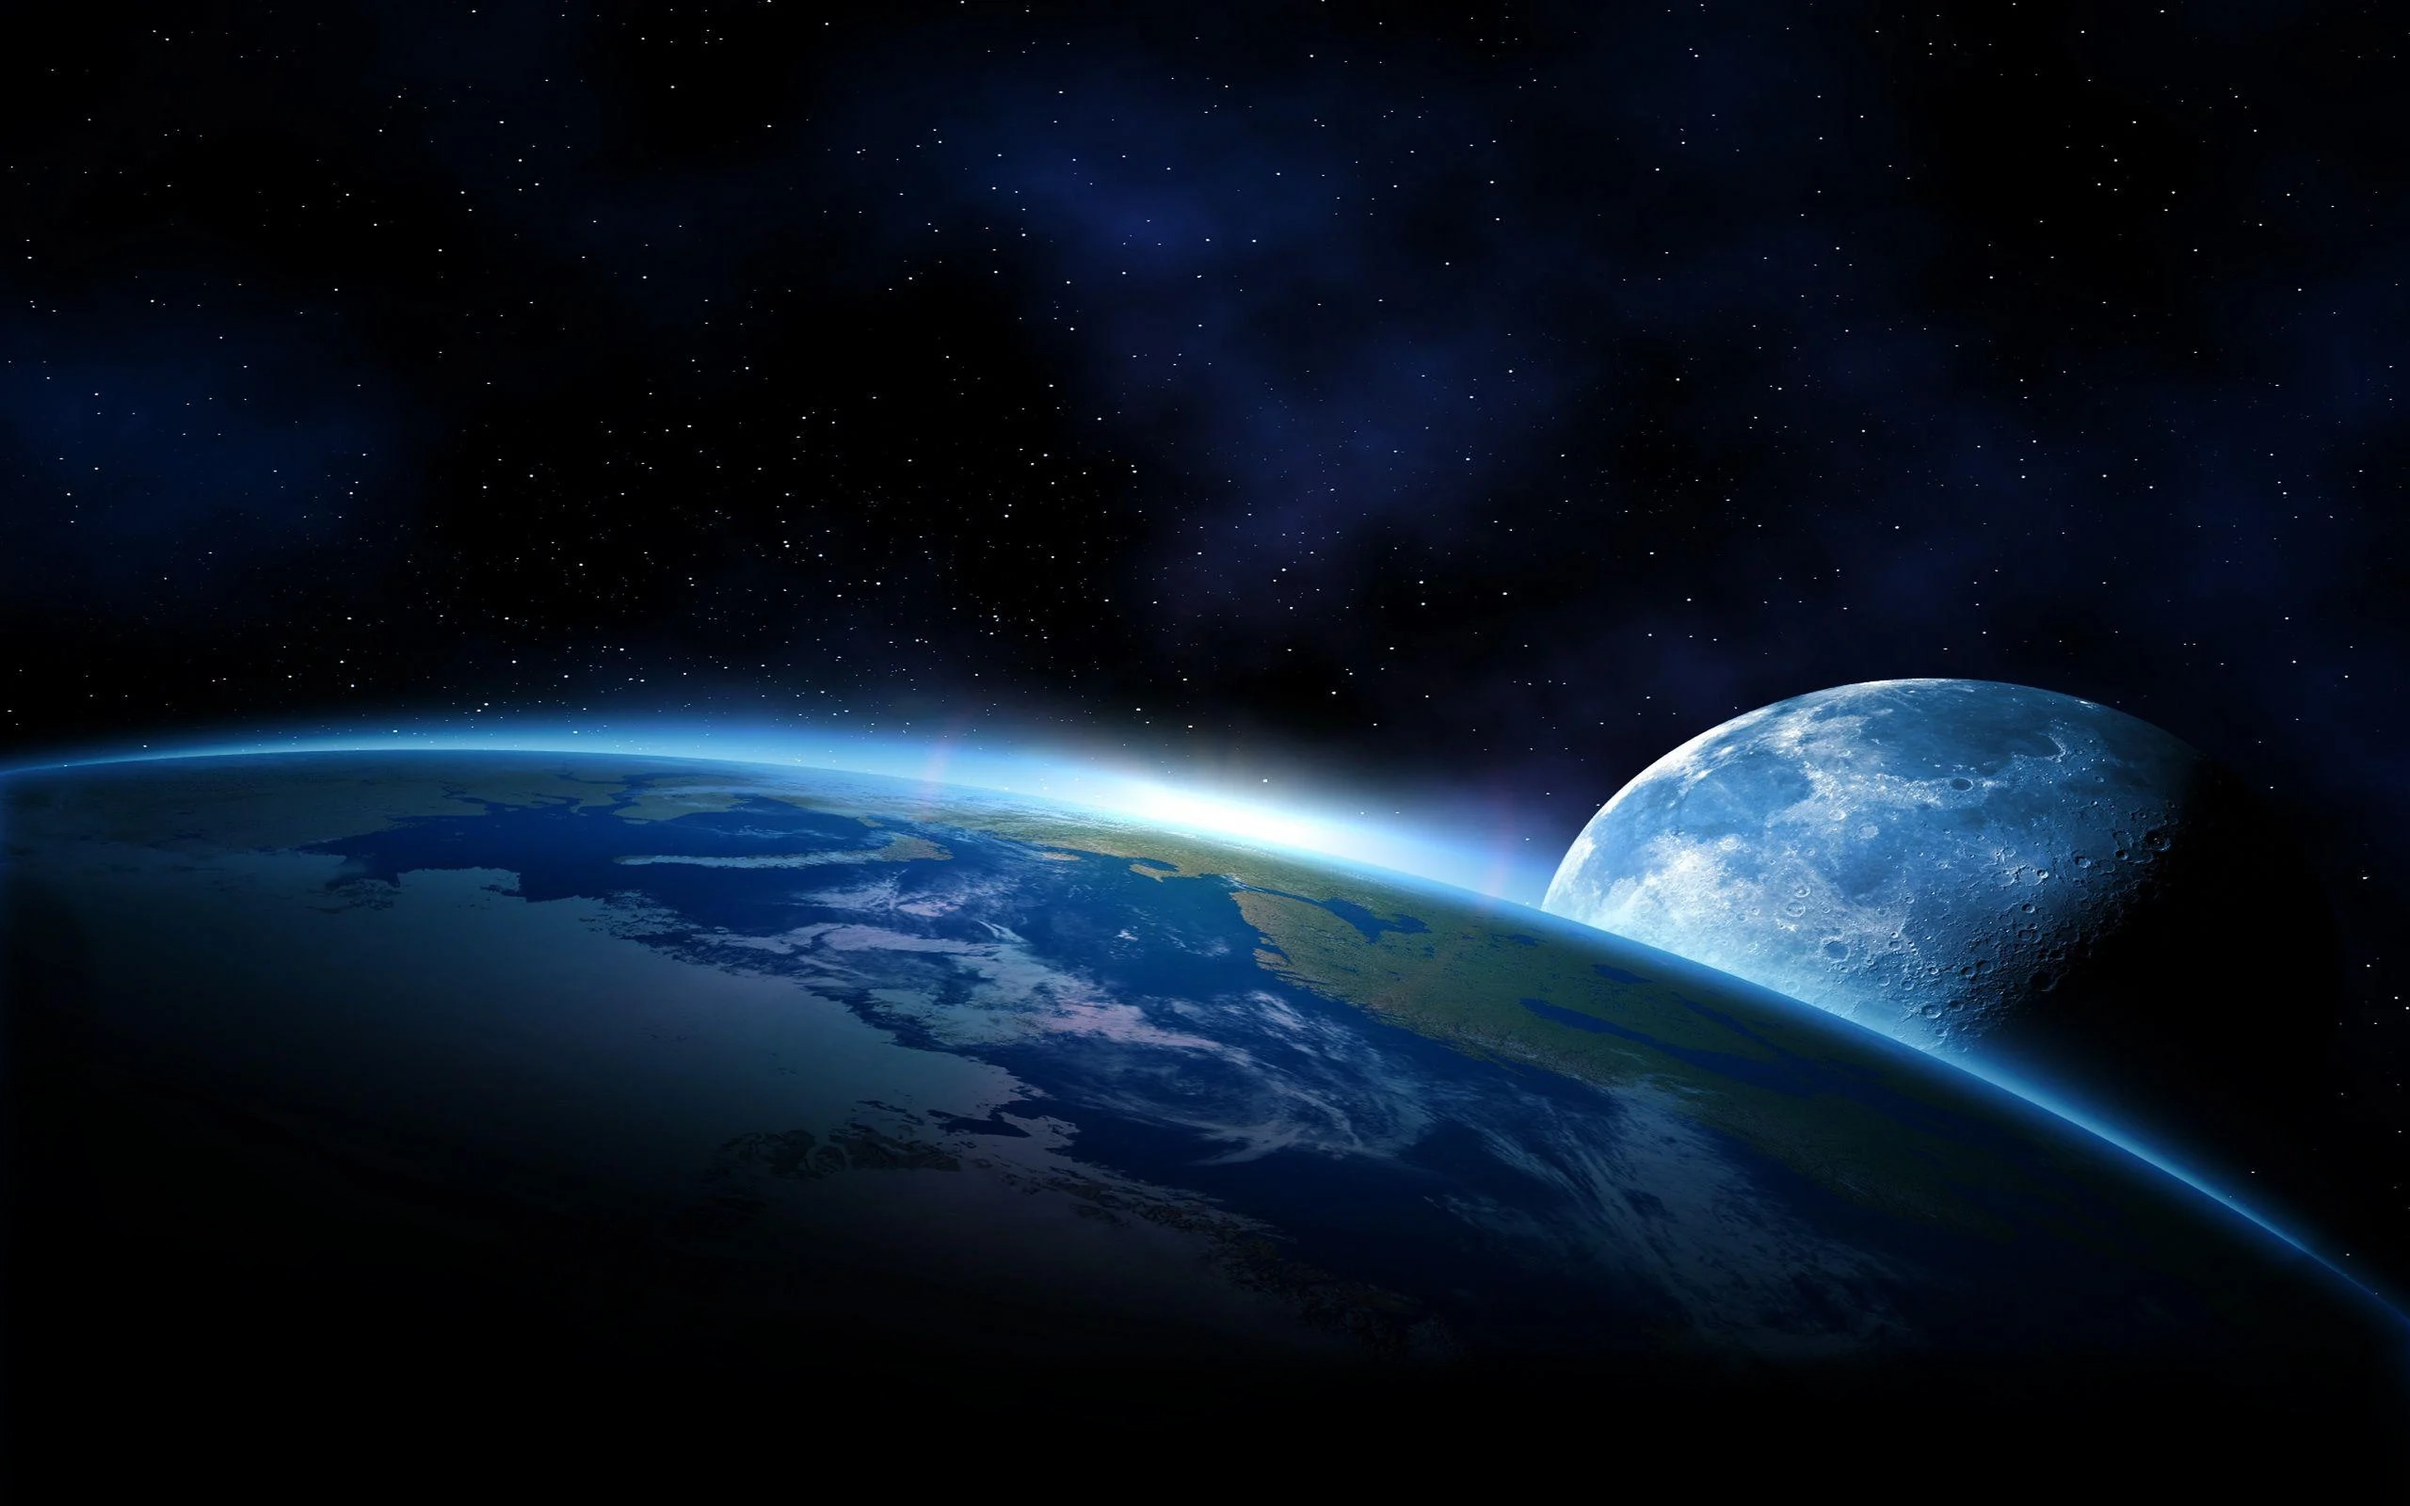
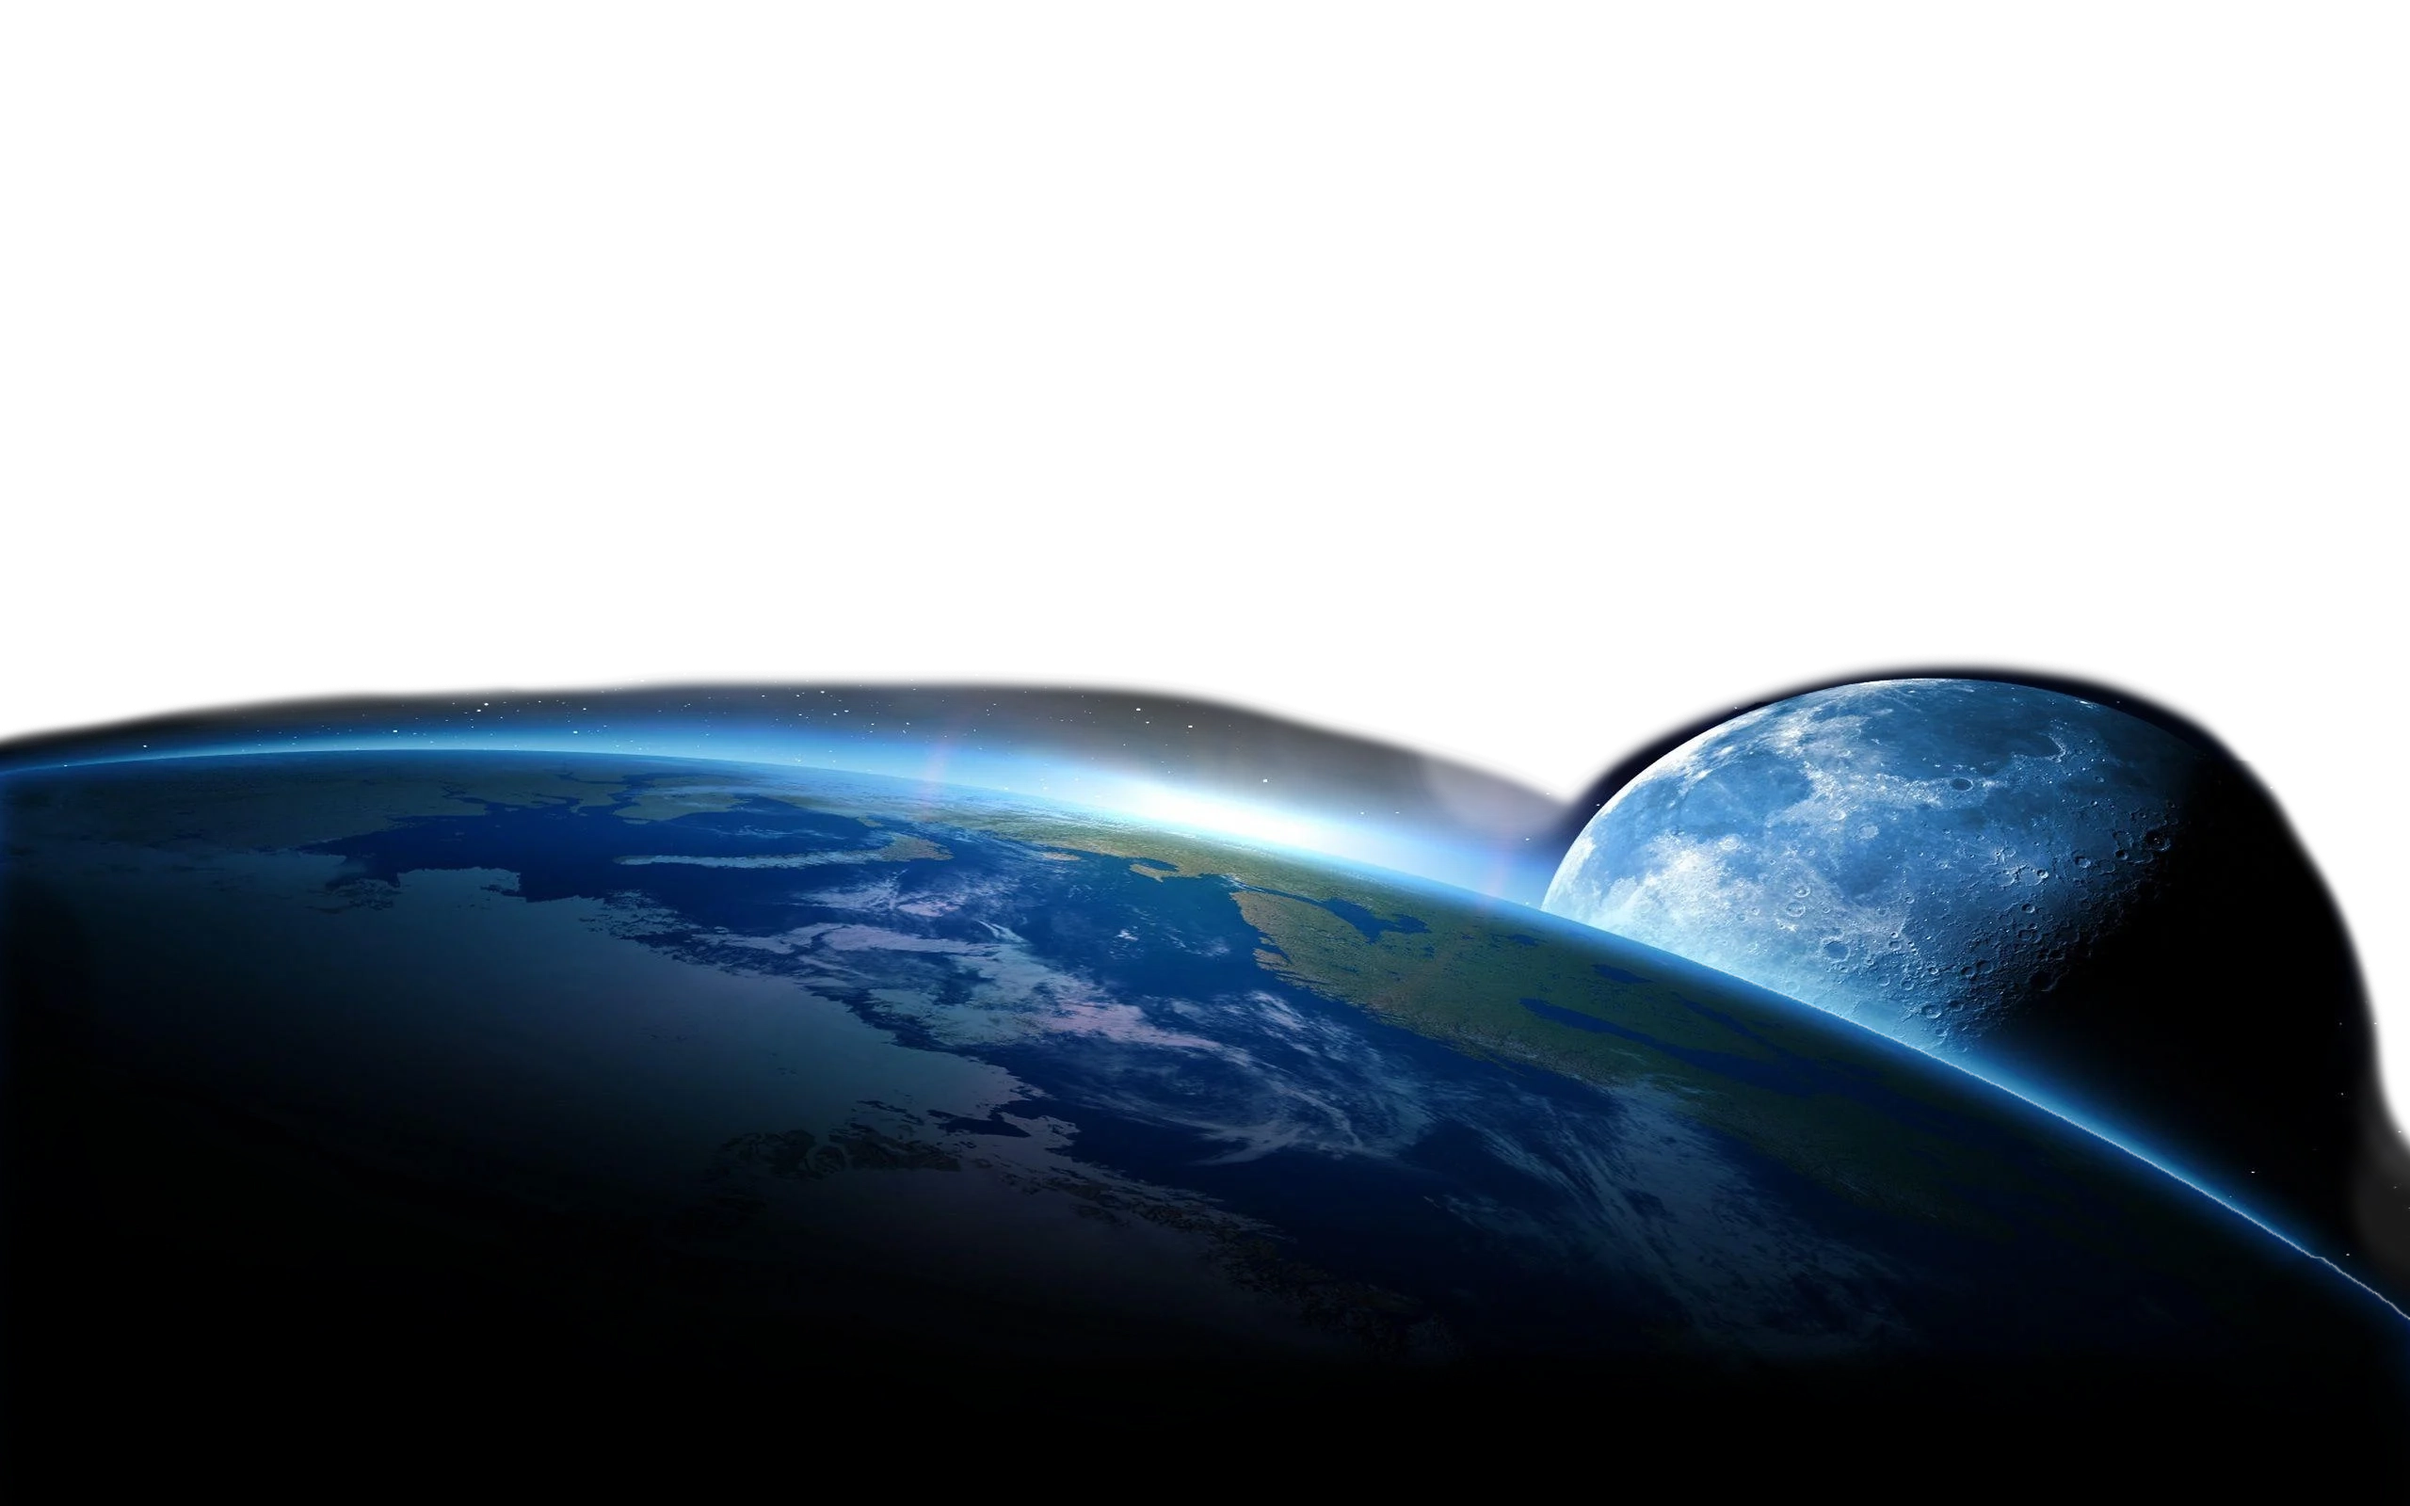
add new animations

diff --git a/Dynamic/src/components/ParticlesBackground.tsx b/Dynamic/src/components/ParticlesBackground.tsx
@@ -1,0 +1,116 @@
+import React, { useEffect } from "react";
+
+const ParticlesBackground: React.FC = () => {
+	useEffect(() => {
+		if (window.particlesJS) {
+			window.particlesJS("particles-js", {
+				particles: {
+					number: {
+						value: 20,
+						density: {
+							enable: true,
+							value_area: 800,
+						},
+					},
+					color: {
+						value: "#ffffff",
+					},
+					shape: {
+						type: "circle",
+						stroke: {
+							width: 0,
+							color: "#000000",
+						},
+						polygon: {
+							nb_sides: 5,
+						},
+					},
+					opacity: {
+						value: 0.3,
+						random: false,
+						anim: {
+							enable: false,
+							speed: 1,
+							opacity_min: 0.1,
+							sync: false,
+						},
+					},
+					size: {
+						value: 3,
+						random: true,
+						anim: {
+							enable: false,
+							speed: 40,
+							size_min: 0.1,
+							sync: false,
+						},
+					},
+					line_linked: {
+						distance: 150,
+						color: "#ffffff",
+						opacity: 0,
+						width: 1,
+					},
+					move: {
+						enable: true,
+						speed: 1,
+						direction: "none",
+						random: false,
+						straight: false,
+						out_mode: "out",
+						bounce: false,
+						attract: {
+							enable: false,
+							rotateX: 600,
+							rotateY: 1200,
+						},
+					},
+				},
+				interactivity: {
+					detect_on: "canvas",
+					events: {
+						onhover: {
+							enable: true,
+							mode: "repulse",
+						},
+						onclick: {
+							enable: true,
+							mode: "push",
+						},
+						resize: true,
+					},
+					modes: {
+						grab: {
+							distance: 400,
+							line_linked: {
+								opacity: 1,
+							},
+						},
+						bubble: {
+							distance: 400,
+							size: 40,
+							duration: 2,
+							opacity: 8,
+							speed: 3,
+						},
+						repulse: {
+							distance: 200,
+							duration: 1,
+						},
+						push: {
+							particles_nb: 4,
+						},
+						remove: {
+							particles_nb: 2,
+						},
+					},
+				},
+				retina_detect: true,
+			});
+		}
+	}, []);
+
+	return <div id="particles-js" style={{ position: "absolute", width: "100%", height: "100%", zIndex: -1 }}></div>;
+};
+
+export default ParticlesBackground;

diff --git a/Dynamic/src/components/ParallaxText.tsx b/Dynamic/src/components/ParallaxText.tsx
@@ -6,10 +6,11 @@ import Animation from "../js/Animation";
 import Text2 from "./Explenation";
 import NewScreen from "./NewScreen";
 import Text3 from "./Sound";
-import Image from "../assets/Background.webp";
+import Image from "../assets/Background copy.webp";
 import End from "./End";
 import Earth from "./Earth";
 import Iss from "./Iss";
+import ParticlesBackground from "./ParticlesBackground";
 
 function ParallaxComponent() {
 	const [showNewScreen, setShowNewScreen] = useState(false);
@@ -33,6 +34,7 @@ function ParallaxComponent() {
 
 	return (
 		<div>
+			<ParticlesBackground />
 			{showNewScreen && (
 				<div className="overlay">
 					<NewScreen onClose={handleClose} />

diff --git a/Dynamic/src/App.css b/Dynamic/src/App.css
@@ -244,7 +244,7 @@ h2.right {
 	margin-top: 90px;
 }
 .End {
-	background-image: url(../src/assets/starsBackground.jpg);
+	background-image: url(../src/assets/starsBackground-copy.png);
 	width: 100%;
 	height: 180%;
 	margin-top: -20%;

diff --git a/Dynamic/index.html b/Dynamic/index.html
@@ -11,5 +11,6 @@
 	<body>
 		<div id="root"></div>
 		<script type="module" src="/src/main.tsx"></script>
+		<script src="https://cdn.jsdelivr.net/particles.js/2.0.0/particles.min.js"></script>
 	</body>
 </html>

diff --git a/Dynamic/src/particles.d.ts b/Dynamic/src/particles.d.ts
@@ -1,0 +1,4 @@
+declare module "particles.js" {
+	export function init(params: any): void;
+	export function load(tagId: string, pathConfigJson: string): void;
+}

diff --git a/Dynamic/README.md b/Dynamic/README.md
@@ -55,3 +55,5 @@ https://www.youtube.com/watch?v=ccO2B40zkv4
 https://animate.style/
 https://www.eoswetenschap.eu/psyche-brein/onverwacht-vast-de-ruimte-wat-doet-dat-met-een-mens
 https://chatgpt.com/share/67067529-2014-8004-a101-fa22fc1c130e
+https://vincentgarreau.com/particles.js/
+https://chatgpt.com/share/67067ec4-a2ec-8004-b94d-d73aac8914bb
